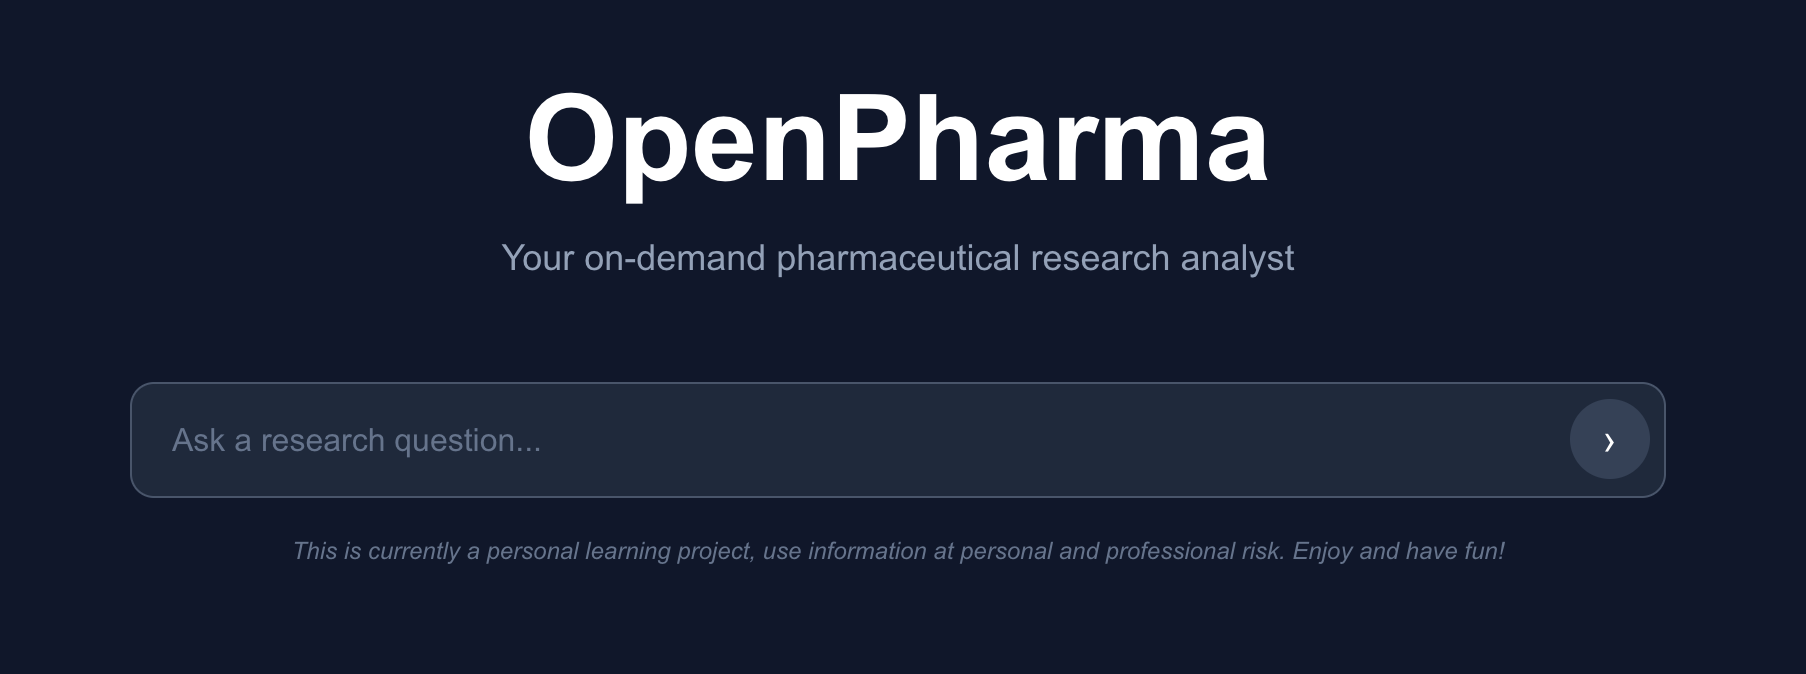
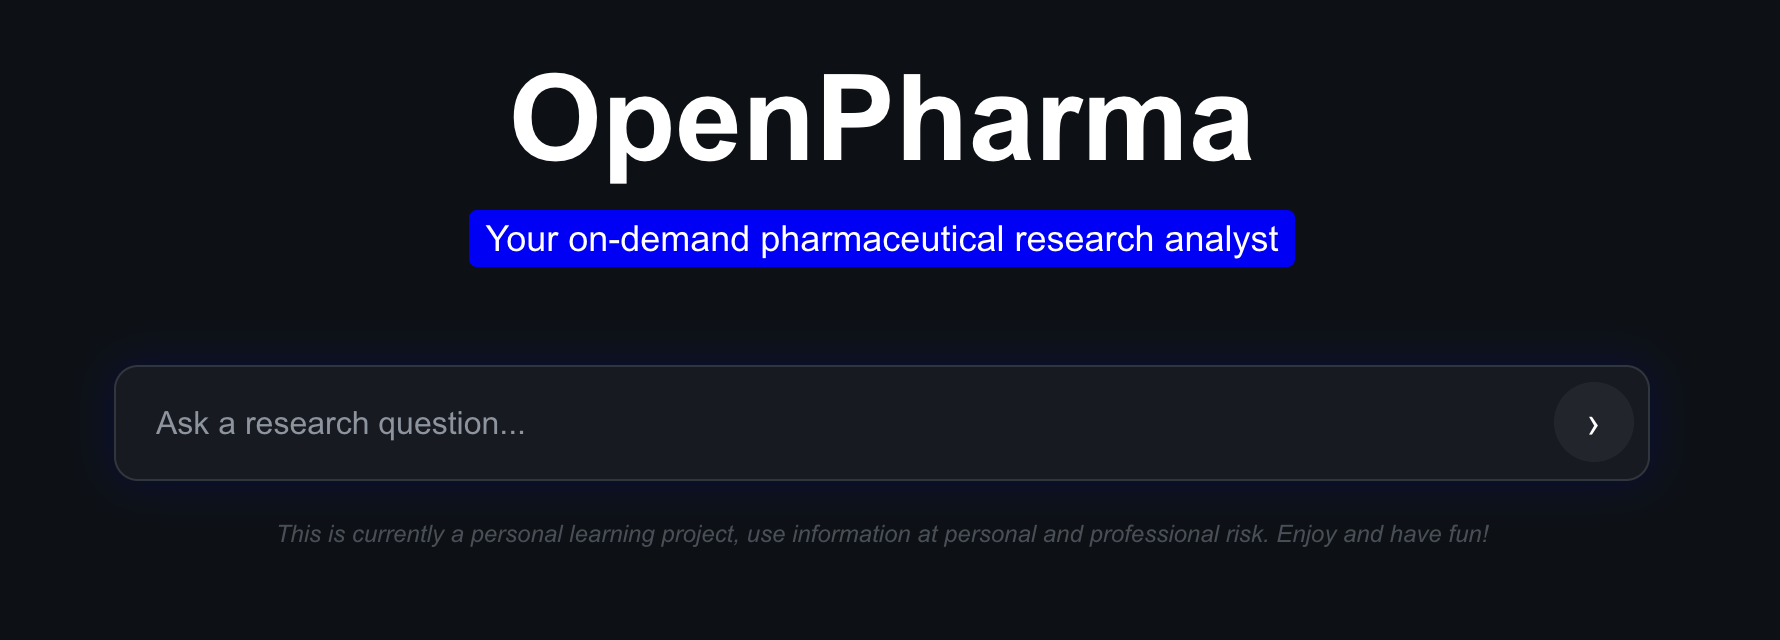
Updated UI

Changed region(s): [[0.0618, 0.5625, 0.927, 0.75], [0.2472, 0.0938, 0.7416, 0.4375], [0.1545, 0.7812, 0.8343, 0.8438]]

diff --git a/ui/src/components/ChatInput.tsx b/ui/src/components/ChatInput.tsx
@@ -25,7 +25,7 @@ export function ChatInput({ value, onChange, onSend, centered = false, disabled 
           placeholder="Ask a research question..."
           rows={1}
           disabled={disabled}
-          className={`w-full bg-slate-800 border border-slate-600 rounded-xl px-4 py-3 sm:px-5 sm:py-4 pr-12 sm:pr-14 text-slate-100 placeholder-slate-500 focus:outline-none focus:ring-2 focus:ring-blue-500 focus:border-transparent text-base resize-none overflow-hidden ${disabled ? 'opacity-50 cursor-not-allowed' : ''}`}
+          className={`w-full bg-slate-800 border border-slate-600 rounded-xl px-4 py-3 sm:px-5 sm:py-4 pr-12 sm:pr-14 text-slate-100 placeholder-slate-400 focus:outline-none focus:ring-2 focus:ring-accent focus:border-transparent text-base resize-none overflow-hidden shadow-[0_0_20px_rgba(0,0,255,0.15)] hover:shadow-[0_0_25px_rgba(0,0,255,0.25)] focus:shadow-[0_0_30px_rgba(0,0,255,0.4)] transition-all ${disabled ? 'opacity-50 cursor-not-allowed' : ''}`}
           style={{
             minHeight: '52px',
             maxHeight: '200px',
@@ -39,7 +39,7 @@ export function ChatInput({ value, onChange, onSend, centered = false, disabled 
         {/* button component's onClick event -> call parent's onSend prop (which is handleSend) */}
         <button
           onClick={onSend}
-          className="absolute right-2 bottom-3 sm:bottom-4 bg-blue-500 text-white w-9 h-9 sm:w-10 sm:h-10 rounded-full flex items-center justify-center hover:bg-blue-600 transition-colors disabled:bg-slate-700 disabled:cursor-not-allowed"
+          className="absolute right-2 bottom-3 sm:bottom-4 bg-accent text-white w-9 h-9 sm:w-10 sm:h-10 rounded-full flex items-center justify-center hover:bg-accent-hover transition-colors disabled:bg-slate-700 disabled:cursor-not-allowed"
           disabled={!value.trim() || disabled}
           aria-label="Send message"
         >

diff --git a/ui/src/components/CitationList.tsx b/ui/src/components/CitationList.tsx
@@ -44,7 +44,7 @@ export function CitationList({ citations }: CitationListProps) {
     <div id="citation-section" className="mt-4 pt-4 border-t border-slate-600 scroll-mt-20">
       <button
         onClick={() => setShowCitations(!showCitations)}
-        className="text-sm text-blue-400 hover:text-blue-300 flex items-center gap-1 mb-3"
+        className="text-sm text-accent-text hover:opacity-80 flex items-center gap-1 mb-3"
       >
         <span>{showCitations ? '▲' : '▼'}</span>
         <span className="uppercase tracking-wide">{showCitations ? 'Hide' : 'Show'} all sources ({citations.length})</span>
@@ -63,7 +63,7 @@ export function CitationList({ citations }: CitationListProps) {
               id={`citation-${citation.number}`}
               className="text-xs text-slate-300 bg-slate-700/50 rounded-lg p-3 border border-slate-600 transition-all duration-300 scroll-mt-4"
             >
-              <span className="font-semibold text-blue-400">[{citation.number}]</span>{' '}
+              <span className="font-semibold text-accent-text">[{citation.number}]</span>{' '}
               <span className="italic">{citation.title}</span>
               <div className="text-slate-400 mt-1">
                 {citation.journal} •{' '}
@@ -71,7 +71,7 @@ export function CitationList({ citations }: CitationListProps) {
                   href={`https://www.ncbi.nlm.nih.gov/pmc/articles/PMC${citation.source_id}/`}
                   target="_blank"
                   rel="noopener noreferrer"
-                  className="text-blue-400 hover:text-blue-300 underline"
+                  className="text-accent-text hover:opacity-80 underline"
                 >
                   PMC{citation.source_id}
                 </a>

diff --git a/ui/src/components/ConversationSidebar.tsx b/ui/src/components/ConversationSidebar.tsx
@@ -39,7 +39,7 @@ export function ConversationSidebar({
 
       {/* Sidebar */}
       <div
-        className={`bg-slate-800 border-r border-slate-700 flex flex-col transition-all duration-300 ease-in-out
+        className={`bg-gradient-to-b from-slate-800 via-slate-800 to-slate-900 border-r border-slate-700 flex flex-col transition-all duration-300 ease-in-out
           fixed md:static inset-y-0 left-0 z-50
           ${isOpen ? 'translate-x-0' : '-translate-x-full md:translate-x-0'}
           ${isExpanded ? 'w-64' : 'w-64 md:w-12'}
@@ -92,10 +92,10 @@ export function ConversationSidebar({
               <button
                 key={conv.conversation_id}
                 onClick={() => onSelectConversation(conv.conversation_id)}
-                className={`w-full text-left p-3 rounded-lg transition-colors ${
+                className={`w-full text-left p-3 rounded-lg transition-all ${
                   currentConversationId === conv.conversation_id
-                    ? 'bg-slate-700 border border-blue-500'
-                    : 'bg-slate-900 border border-slate-700 hover:bg-slate-700'
+                    ? 'bg-slate-900 border-2 border-accent shadow-[0_0_15px_rgba(0,0,255,0.3)]'
+                    : 'bg-slate-900 border border-slate-700 hover:border-accent/50 hover:shadow-[0_0_15px_rgba(0,0,255,0.2)]'
                 }`}
               >
                 <div className="text-sm text-slate-200 truncate mb-1">

diff --git a/ui/src/components/MessageBubble.tsx b/ui/src/components/MessageBubble.tsx
@@ -47,7 +47,7 @@ export function MessageBubble({ message }: MessageBubbleProps) {
               }
             }, 350)
           }}
-          className="text-blue-400 hover:text-blue-300 hover:underline font-semibold cursor-pointer transition-colors"
+          className="text-accent-text hover:opacity-80 hover:underline font-semibold cursor-pointer transition-all"
         >
           [{match[1]}]
         </button>
@@ -67,9 +67,9 @@ export function MessageBubble({ message }: MessageBubbleProps) {
   return (
     <div className="animate-fade-in">
       {isUser ? (
-        // User message: bubble on the right
+        // User message: bubble on the right with blue outline
         <div className="flex justify-end mb-6">
-          <div className="max-w-3xl rounded-xl px-5 py-4 bg-slate-700 text-white">
+          <div className="max-w-3xl rounded-xl px-5 py-4 bg-accent/15 border-2 border-accent text-white">
             <div className="text-xs font-semibold mb-2 uppercase tracking-wide text-slate-300">
               You
             </div>

diff --git a/ui/src/app/globals.css b/ui/src/app/globals.css
@@ -3,19 +3,37 @@
 :root {
   --background: #ffffff;
   --foreground: #171717;
+  --accent: #0000FF;
+  --accent-hover: #0000CC;
+  --accent-text: #6B9FFF;
 }
 
 @theme inline {
   --color-background: var(--background);
   --color-foreground: var(--foreground);
+  --color-accent: var(--accent);
+  --color-accent-hover: var(--accent-hover);
+  --color-accent-text: var(--accent-text);
+
+  /* Analogous cyan-tinted palette - harmonious with blue */
+  --color-slate-900: #0d1117;
+  --color-slate-800: #161b22;
+  --color-slate-700: #21262d;
+  --color-slate-600: #30363d;
+  --color-slate-500: #484f58;
+  --color-slate-400: #8b949e;
+  --color-slate-300: #c9d1d9;
+  --color-slate-200: #e6edf3;
+  --color-slate-100: #f0f6fc;
+
   --font-sans: var(--font-geist-sans);
   --font-mono: var(--font-geist-mono);
 }
 
 @media (prefers-color-scheme: dark) {
   :root {
-    --background: #0a0a0a;
-    --foreground: #ededed;
+    --background: #0a0e14;
+    --foreground: #f5f5f5;
   }
 }
 

diff --git a/ui/src/app/page.tsx b/ui/src/app/page.tsx
@@ -236,7 +236,9 @@ export default function Chat() {
             </button>
 
             <h1 className="text-4xl sm:text-5xl md:text-6xl font-bold mb-4 text-white text-center">OpenPharma</h1>
-            <p className="text-base sm:text-lg text-slate-400 mb-8 sm:mb-12 text-center">Your on-demand pharmaceutical research analyst</p>
+            <p className="text-base sm:text-lg mb-8 sm:mb-12 text-center leading-relaxed">
+              <span className="bg-accent text-white px-2 py-1 rounded" style={{ boxDecorationBreak: 'clone', WebkitBoxDecorationBreak: 'clone' }}>Your on-demand pharmaceutical research analyst</span>
+            </p>
             <div className="w-full max-w-3xl">
               <ChatInput value={input} onChange={setInput} onSend={handleSend} centered={true} disabled={isLoading} />
             </div>

diff --git a/ui/src/components/ChatHeader.tsx b/ui/src/components/ChatHeader.tsx
@@ -27,7 +27,7 @@ export function ChatHeader({ onReturnHome, onToggleSidebar }: ChatHeaderProps) {
 
         <button
           onClick={onReturnHome}
-          className="px-3 py-1.5 md:px-4 md:py-2 bg-blue-600 hover:bg-blue-700 text-white rounded-lg text-xs md:text-sm font-semibold transition-colors whitespace-nowrap flex-shrink-0 self-center"
+          className="px-3 py-1.5 md:px-4 md:py-2 bg-accent hover:bg-accent-hover text-white rounded-lg text-xs md:text-sm font-semibold transition-colors whitespace-nowrap flex-shrink-0 self-center"
         >
           <span className="hidden sm:inline">+ New Conversation</span>
           <span className="sm:hidden">+ New</span>

diff --git a/README.md b/README.md
@@ -7,10 +7,10 @@
 Ask questions about diabetes research, get AI-synthesized answers with citations from 110K+ research papers.
 
 ### Desktop
-![Desktop conversation view](images/desktop-conversation.png)
+![Desktop conversation view](images/desktop-convo.png)
 
 ### Mobile
-<img src="images/mobile-conversation.png" alt="Mobile conversation view" width="300">
+<img src="images/mobile-convo.png" alt="Mobile conversation view" width="300">
 
 ## What It Does
 
